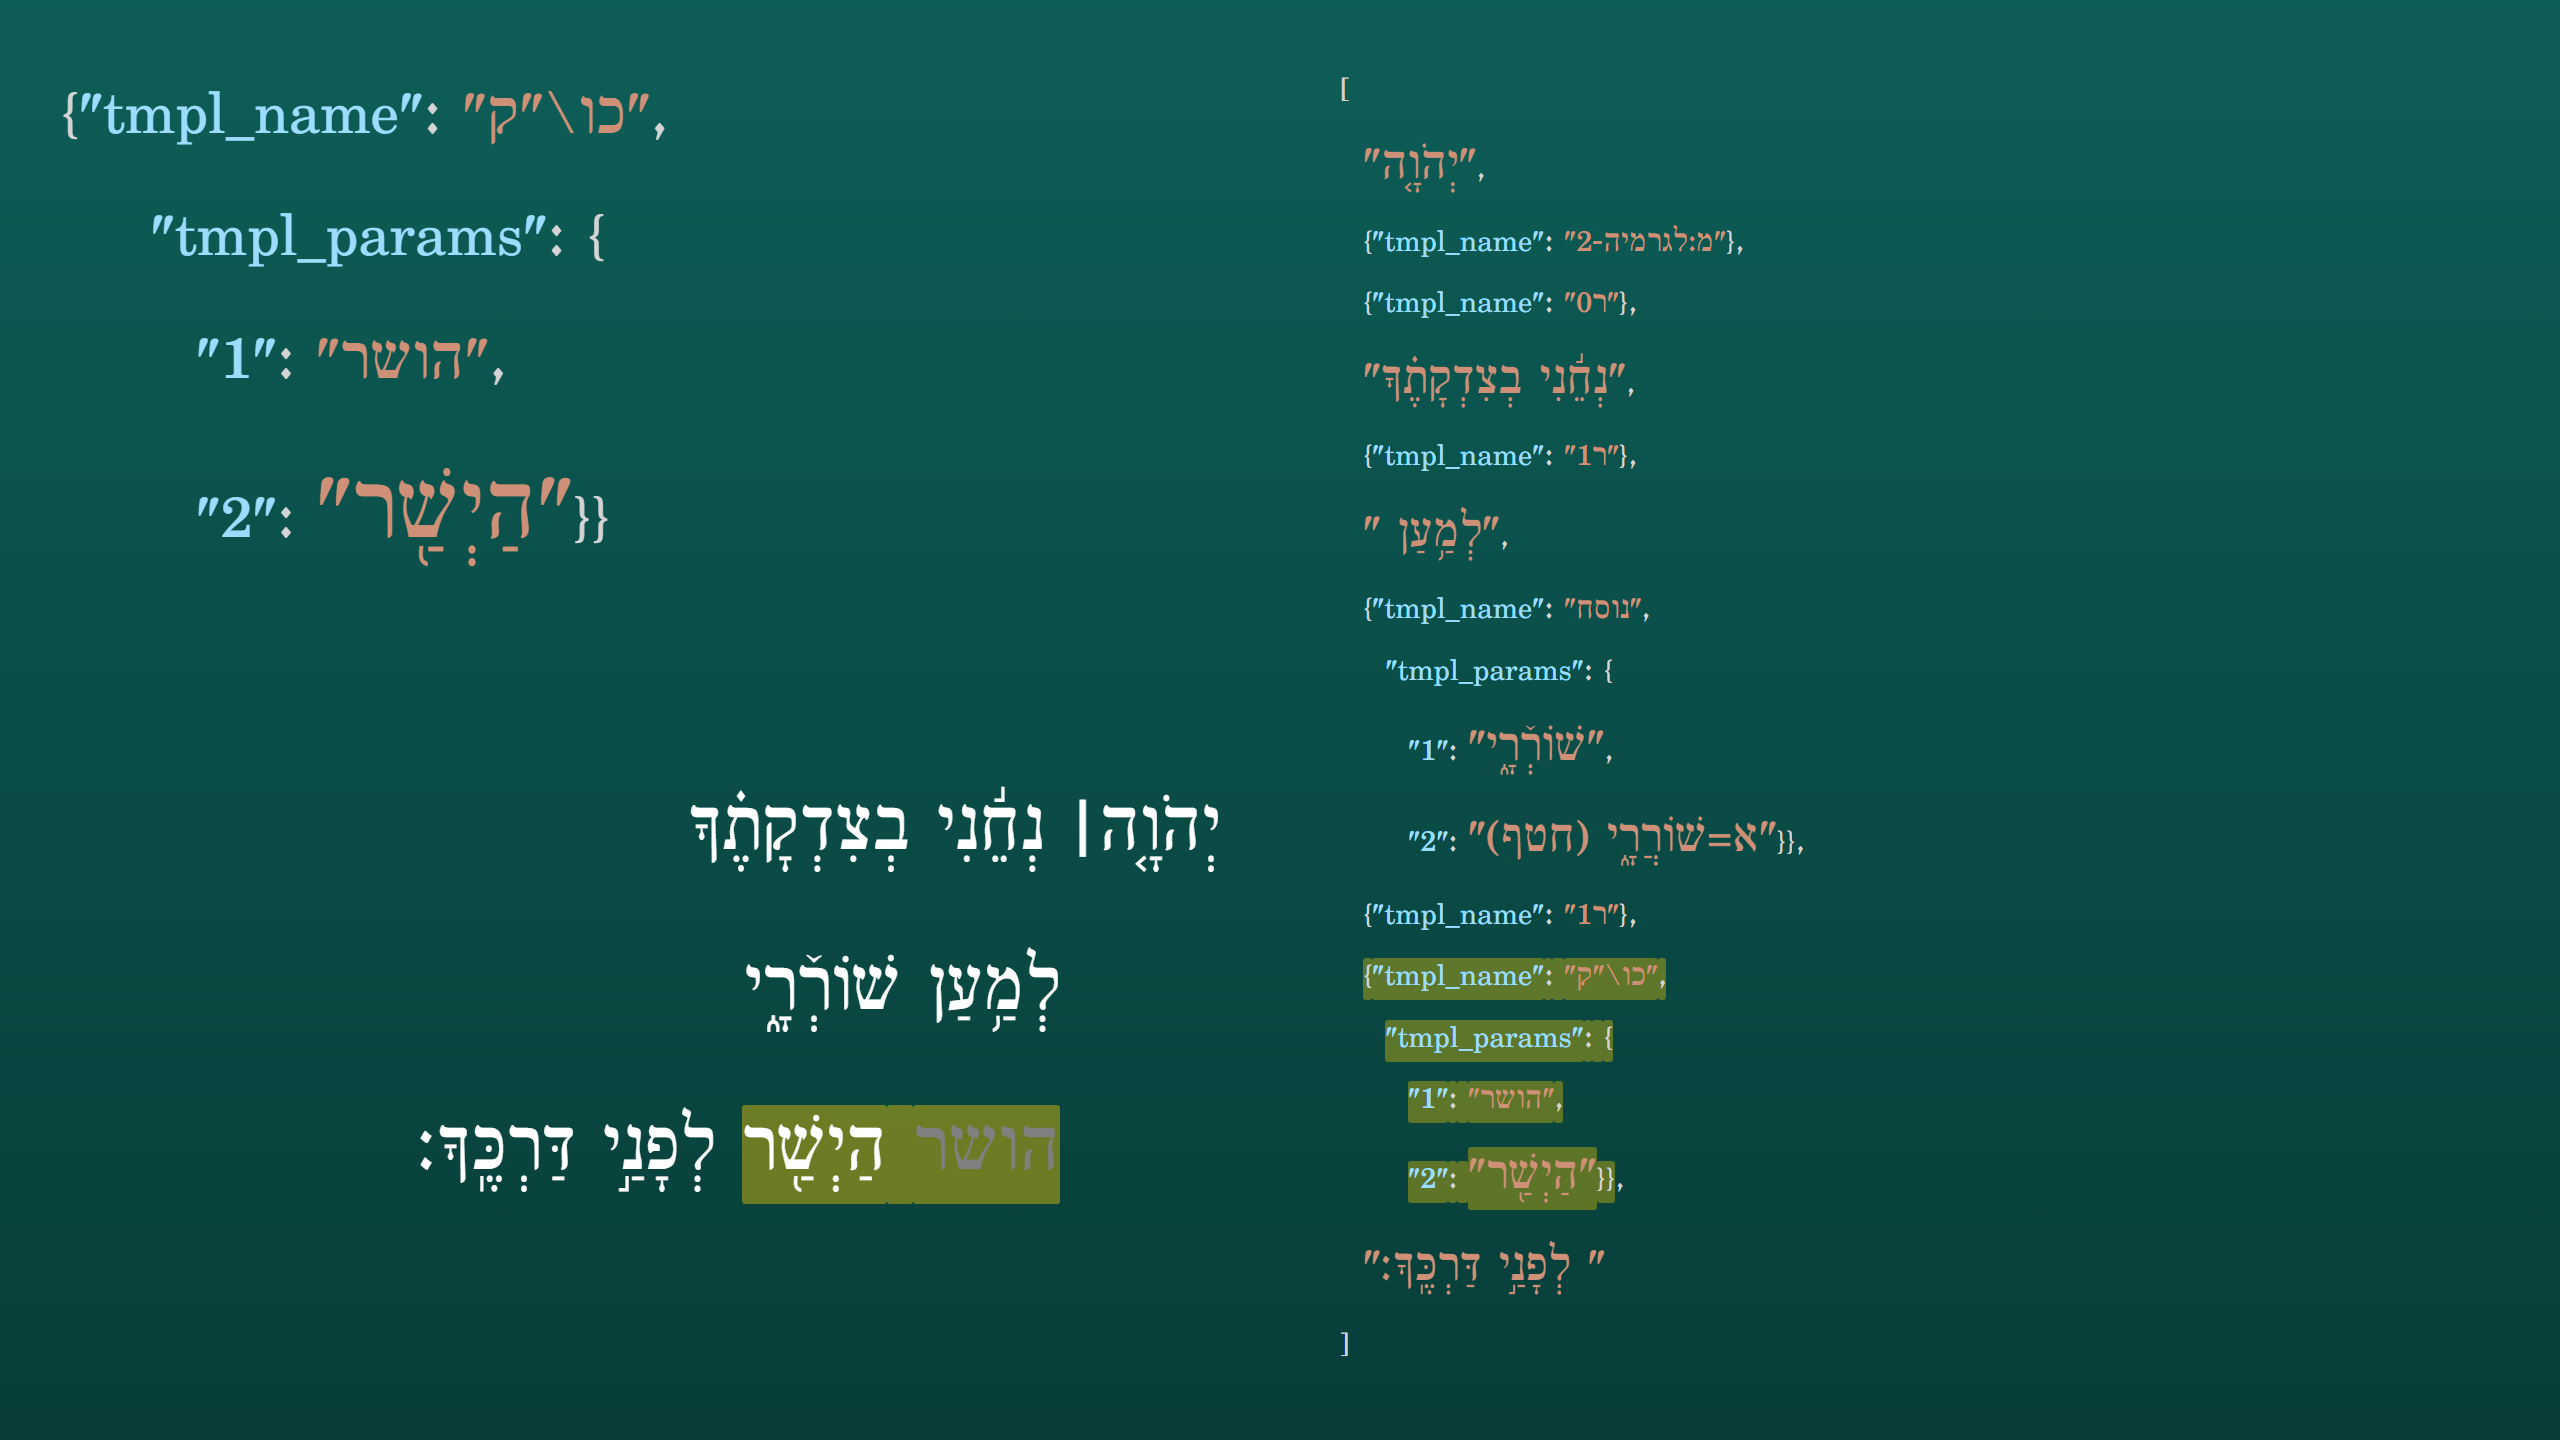
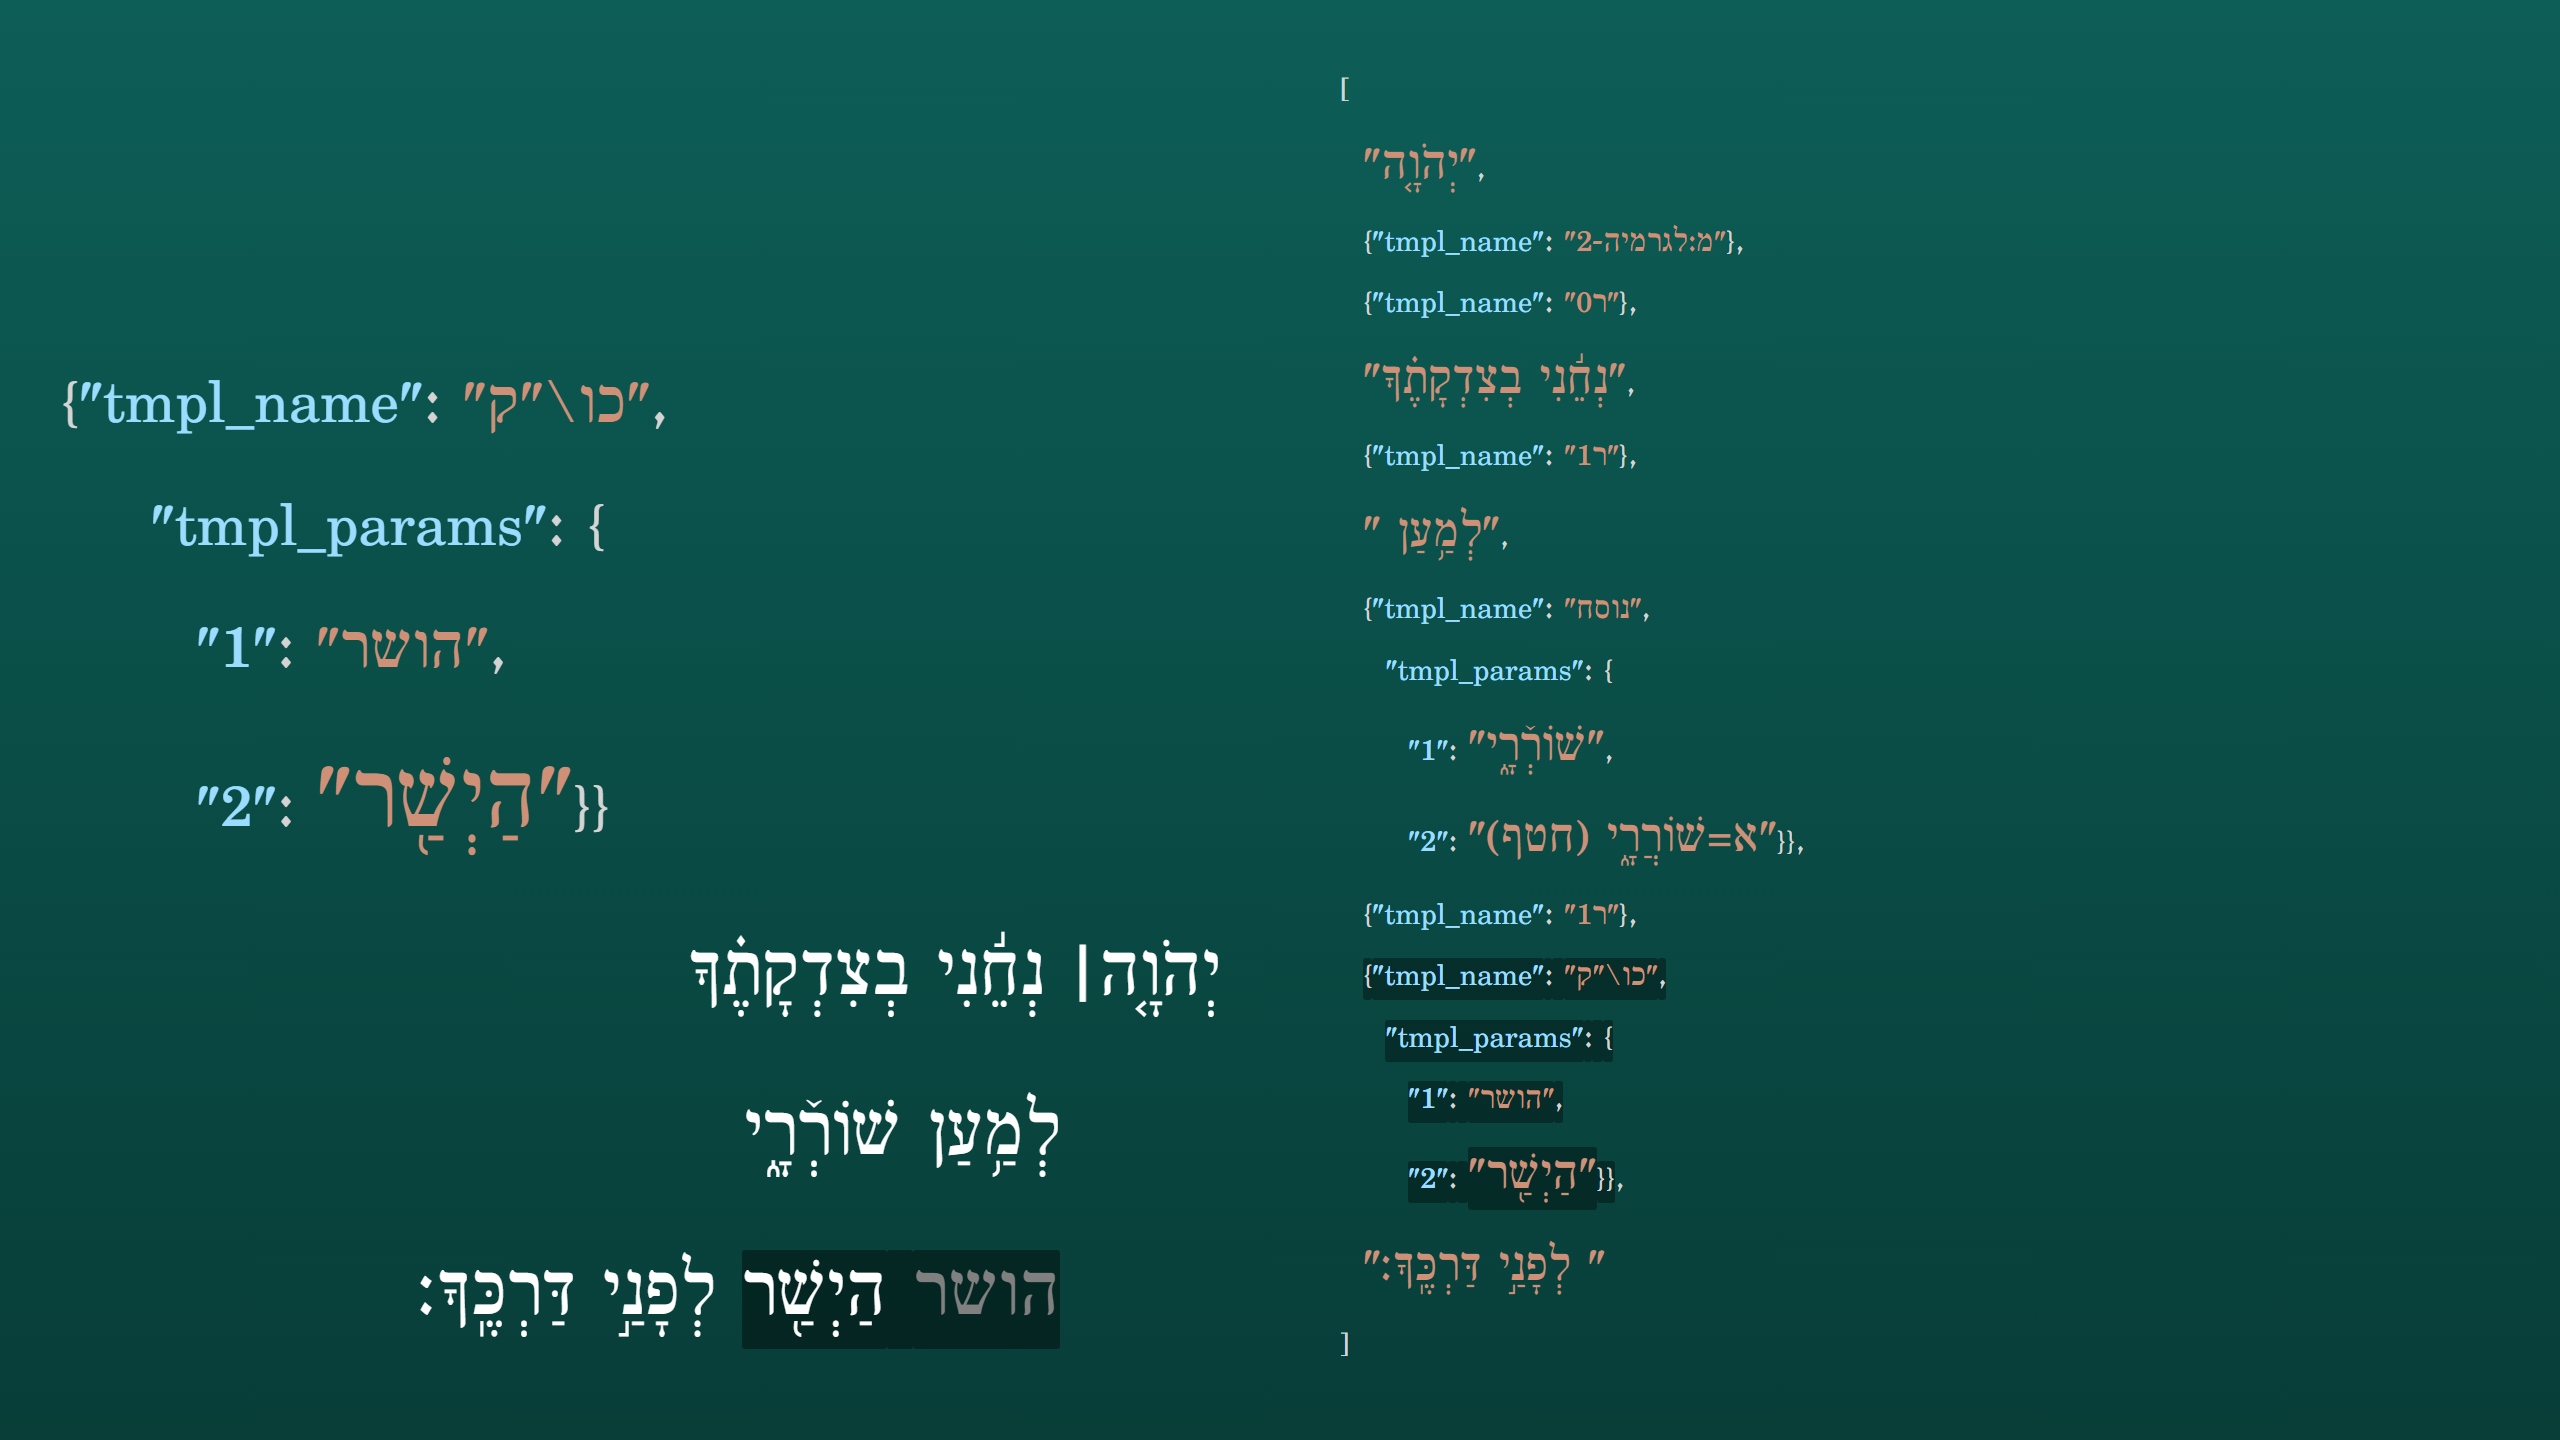
Issue #72: place mpplus zoom directly above rendered edition text
- Update multistep slide layout to stack zoom above companion text without overlap
- Bottom-anchor the left column and simplify companion wrapper sizing
- Keep step-driven zoom visibility behavior while avoiding collision
- Add regression test for direct-above zoom placement in multistep HTML output
- Regenerate interactive HTML and step PNGs for psalm-5v9-mpplus-steps
- Normalize CSS indentation in generated and source template output

Fixes #72

diff --git a/misc/mam-is-a-dataset/img-sources/slide-psalm-5v9-mpplus-interactive.html b/misc/mam-is-a-dataset/img-sources/slide-psalm-5v9-mpplus-interactive.html
@@ -28,6 +28,7 @@
     flex-direction: column;
     overflow: hidden;
     padding: 60px;
+    justify-content: flex-end;
   }
   #right-col {
     flex: 2;
@@ -45,10 +46,7 @@
     display: none;
   }
   #companion-wrapper {
-    flex: 1;
-    display: flex;
-    align-items: center;
-    justify-content: center;
+    flex: 0;
   }
   .companion-html {
     font-family: 'Taamey', serif;

diff --git a/py/tests/test_json_snippet_browser.py b/py/tests/test_json_snippet_browser.py
@@ -26,6 +26,25 @@ class TestJsonSnippetBrowser(unittest.TestCase):
         self.assertIn('body[data-step="0"] #main .hl-0', html)
         self.assertIn('body[data-step="0"] #zoom .zm-0', html)
 
+    def test_multistep_zoom_sits_directly_above_companion_view(self):
+        html = json_snippet_browser._build_multistep_html(
+            json_text='{"a": "יְ", "b": "ABC"}',
+            steps=[{"highlight_text": '"יְ"'}],
+            top_rgb=(13, 94, 87),
+            bot_rgb=(8, 61, 56),
+            font_size_px=34,
+            pointed_scale=1.5,
+            companion_html="",
+        )
+
+        self.assertIn("#left-col {", html)
+        self.assertIn("#zoom {", html)
+        self.assertIn("justify-content: flex-end;", html)
+        self.assertIn("flex-shrink: 0;", html)
+        self.assertIn("#companion-wrapper {", html)
+        self.assertIn("flex: 0;", html)
+        self.assertIn('body[data-step="0"] #zoom { display: block; }', html)
+
     def test_single_span_zoom_modulates_pointed_and_plain_text(self):
         pointed_zoom = json_snippet_browser._one_span(
             value="יְ",

diff --git a/py/slide_generator/json_snippet_browser.py b/py/slide_generator/json_snippet_browser.py
@@ -601,6 +601,7 @@ def _build_multistep_html(
     flex-direction: column;
     overflow: hidden;
     padding: 60px;
+    justify-content: flex-end;
   }}
   #right-col {{
     flex: 2;
@@ -618,10 +619,7 @@ def _build_multistep_html(
     display: none;
   }}
   #companion-wrapper {{
-    flex: 1;
-    display: flex;
-    align-items: center;
-    justify-content: center;
+    flex: 0;
   }}
   .companion-html {{
     font-family: 'Taamey', serif;
@@ -881,3 +879,4 @@ def render_json_snippet_browser(
 
     slide_render.write_provenance(dest, deck_name, slide_name)
     print(f"Saved {dest} ({slide_render.W}, {slide_render.H})")
+
